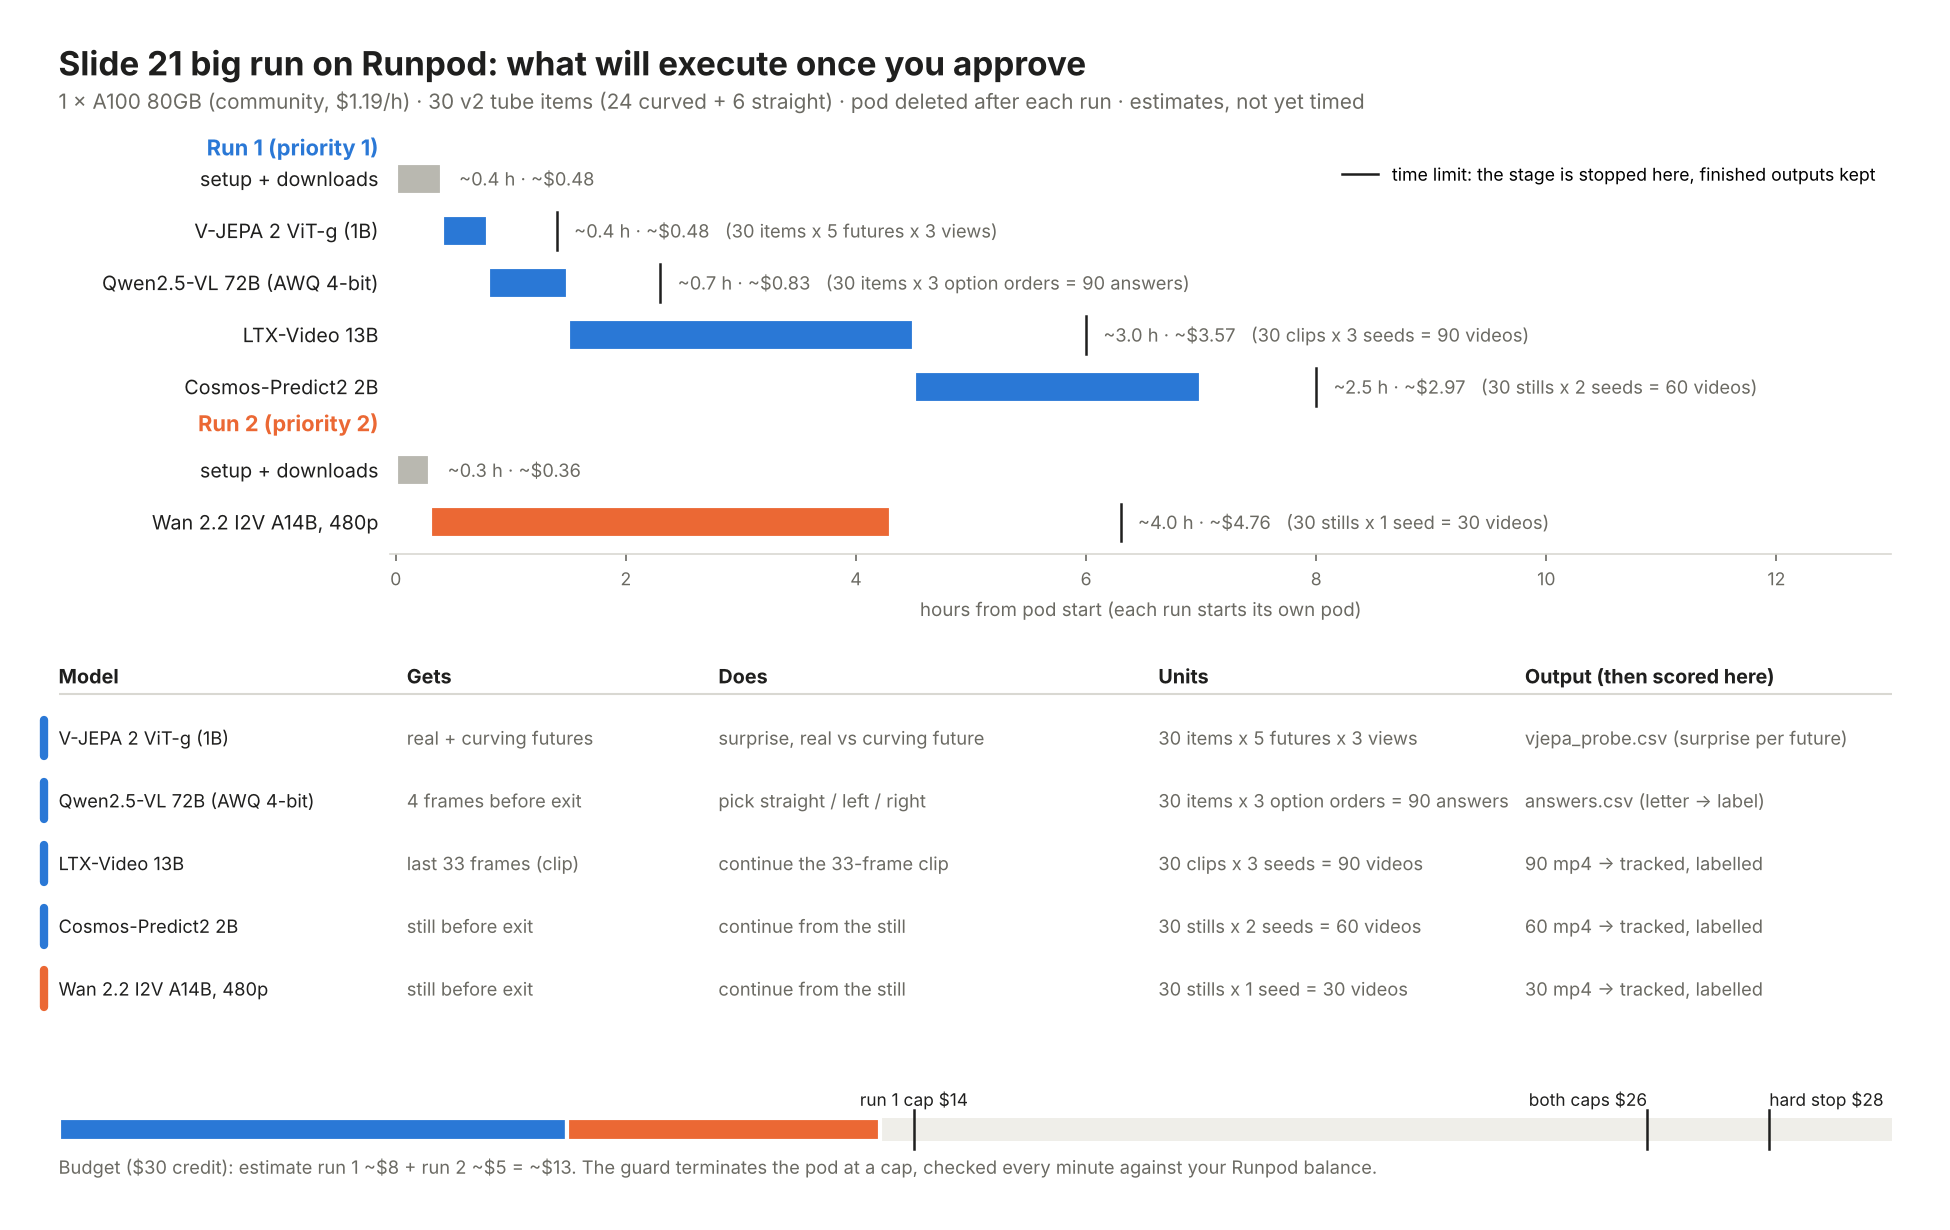
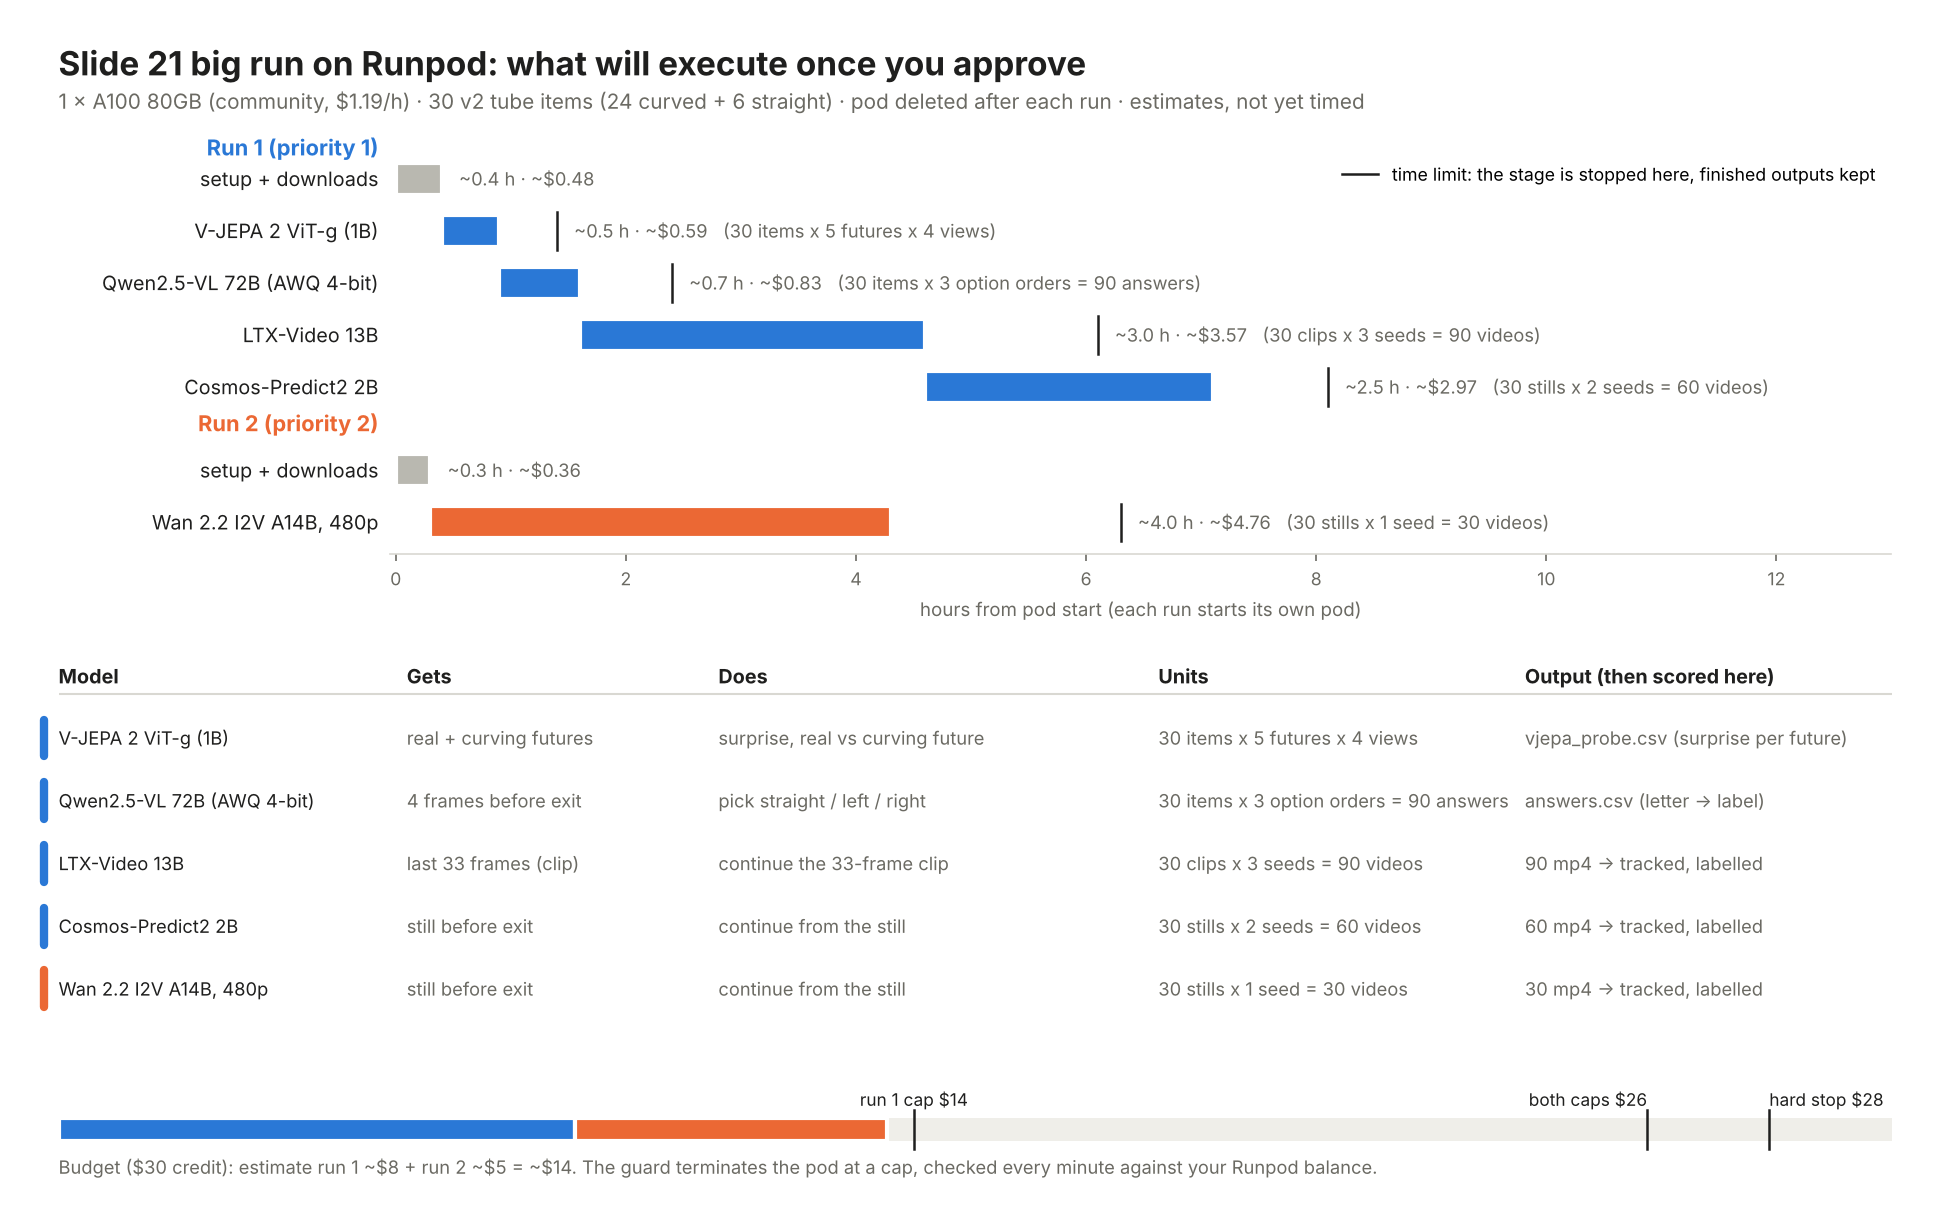
V-JEPA probe: add a 6 fps whole-frame view where the true and curving paths separate
The existing views end 5-13 frames after the exit, when the two futures are only
0.1-1.3 ball radii apart. whole6 spans 1.33 s after the input (median gap 4.3 radii).
The three original views are kept for comparison with the ViT-L run.

Claude-Session: https://claude.ai/code/session_016HSRno71cRiKCwfCcdtaVS

diff --git a/experiments/runpod-bigrun/show_inputs_template.html b/experiments/runpod-bigrun/show_inputs_template.html
@@ -136,7 +136,7 @@ img.frame { width: 100%; height: auto; border-radius: 6px; display: block; backg
     <div class="about">
       <span class="eyebrow">World model · surprise</span><h2>V-JEPA 2 ViT-g</h2>
       <p>Gets 16-frame clips: 8 frames of context (top row) and 8 of a future (bottom row). We compare its surprise at the true future with the curving one. Vanish, reverse and freeze are impossible futures used as a sanity check.</p>
-      <div class="spec"><span class="chip">16 frames</span><span class="chip">256 × 256</span><span class="chip">3 views × 5 futures</span></div>
+      <div class="spec"><span class="chip">16 frames</span><span class="chip">256 × 256</span><span class="chip">4 views × 5 futures</span></div>
     </div>
     <div class="body">
       <div class="seg" id="viewSeg" role="group" aria-label="View"></div>
@@ -158,7 +158,7 @@ const D = /*DATA*/null;
 const $ = id => document.getElementById(id);
 const esc = s => String(s).replace(/[&<>"]/g, c => ({"&": "&amp;", "<": "&lt;", ">": "&gt;", '"': "&quot;"}[c]));
 const LAB = {"curving": "curve", "no bias": "", "outward": "ok"};
-let cur = 0, order = 0, view = "crop24", timer = null;
+let cur = 0, order = 0, view = "whole6", timer = null;
 
 function seg(el, opts, active, onPick) {
   el.innerHTML = opts.map(([v, t]) => `<button type="button" data-v="${v}" aria-pressed="${v == active}">${esc(t)}</button>`).join("");

diff --git a/experiments/pilot/v2/vjepa2/vjepa_probe.py b/experiments/pilot/v2/vjepa2/vjepa_probe.py
@@ -2,8 +2,11 @@
 For each item, 16-frame clips (8 context + 8 future) are built for five futures:
   correct (true straight exit), impetus (curving foil), and three impossible ones for calibration:
   vanish (ball erased after the exit), reverse (ball rolls back into the tube), freeze (ball stops dead).
-Three views of the same clip:
+Four views of the same clip:
   whole  : whole frame padded to a square, 12 fps (as in the first runs)
+  whole6 : whole frame padded to a square, 6 fps: the 8 future frames span 1.33 s after the input ends, so the
+           true and curving balls end a median 4.3 ball radii apart (vs 0.1-1.3 in the other views); on the
+           straight-tube items the ball has left the frame by the last 1-2 frames
   crop12 : 512 px square around the exit point, 12 fps, resized to 256
   crop24 : 256 px square around the exit point, 24 fps, native resolution
 Two scores per view: mean L1 error over all future tokens ("all") and over the tokens where the ball
@@ -47,7 +50,7 @@ def clip_idx(c, fps_step):
 def view(fr, idx, m, kind):
     """Returns (16, RES, RES, 3) uint8 and a function mapping image xy to RES-space xy."""
     H, W = fr.shape[1:3]; c = m["context_end_frame"]; ex, ey = m["ball_xy"][c]
-    if kind == "whole":
+    if kind in ("whole", "whole6"):
         side = max(H, W); ox, oy = (side - W) // 2, (side - H) // 2
         canvas = np.empty((16, side, side, 3), np.uint8); canvas[:] = np.median(fr[0, 0], axis=0).astype(np.uint8)
         canvas[:, oy:oy + H, ox:ox + W] = fr[idx]
@@ -98,7 +101,7 @@ def main():
     for iid, m in sorted(items.items()):
         if not m.get("anomalous_impetus_xy"): continue
         c = m["context_end_frame"]; F = futures(m); step24 = max(1, round(m["fps"] / 24))
-        for kind, step in (("whole", 2 * step24), ("crop12", 2 * step24), ("crop24", step24)):
+        for kind, step in (("whole", 2 * step24), ("crop12", 2 * step24), ("crop24", step24), ("whole6", 4 * step24)):
             idx = clip_idx(c, step)
             if idx[0] < 0 or idx[-1] >= len(F["correct"]): continue
             _, to_res = view(F["correct"], idx, m, kind)

diff --git a/experiments/runpod-bigrun/orchestrate.py b/experiments/runpod-bigrun/orchestrate.py
@@ -36,7 +36,7 @@ IMAGE = "runpod/pytorch:2.4.0-py3.11-cuda12.4.1-devel-ubuntu22.04"   # only its 
 
 # stage: (what, units, est. hours on one A100 80GB incl. weight download, time limit on the pod, extra args)
 STAGES = {
-    "vjepa_g":  ("V-JEPA 2 ViT-g (1B): surprise, real vs curving future", "30 items x 5 futures x 3 views", 0.4, 1.0),
+    "vjepa_g":  ("V-JEPA 2 ViT-g (1B): surprise, real vs curving future", "30 items x 5 futures x 4 views", 0.5, 1.0),
     "ltx13b":   ("LTX-Video 13B: continue the 33-frame clip", "30 clips x 3 seeds = 90 videos", 3.0, 4.5),
     "vlm":      ("Qwen2.5-VL 72B (AWQ 4-bit): pick straight / left / right", "30 items x 3 option orders = 90 answers", 0.7, 1.5),
     "cosmos2b": ("Cosmos-Predict2 2B: continue from the still", "30 stills x 2 seeds = 60 videos", 2.5, 3.5),

diff --git a/experiments/runpod-bigrun/show_inputs.py b/experiments/runpod-bigrun/show_inputs.py
@@ -50,7 +50,8 @@ for iid, m in SEL.items():
         orders.append(dict(text=C.vlm_question(order), labels=lab))
     vjv = []
     for view, desc in (("whole", "whole frame, padded square, 12 fps"), ("crop12", "512 px square at the exit, 12 fps"),
-                       ("crop24", "256 px square at the exit, 24 fps")):
+                       ("crop24", "256 px square at the exit, 24 fps"),
+                       ("whole6", "whole frame, 6 fps: the future runs 1.33 s past the input, so the paths separate")):
         row = {}
         for fut in ("correct", "impetus", "vanish", "reverse", "freeze"):
             p = os.path.join(vj, f"{iid}_{view}_{fut}.jpg")

diff --git a/experiments/runpod-bigrun/README.md b/experiments/runpod-bigrun/README.md
@@ -6,7 +6,7 @@ One A100 80GB on Runpod's community cloud ($1.19/h), two runs, a hard budget of 
 
 | Run | Model | Gets | Output |
 |---|---|---|---|
-| 1 | V-JEPA 2 ViT-g (1B) | 16-frame clips: context + true / curving / 3 impossible futures, 3 views | `vjepa_probe.csv` (surprise per future) |
+| 1 | V-JEPA 2 ViT-g (1B) | 16-frame clips: context + true / curving / 3 impossible futures, 4 views (incl. a 6 fps one where the paths separate) | `vjepa_probe.csv` (surprise per future) |
 | 1 | Qwen2.5-VL 72B (AWQ 4-bit) | 4 frames over the last second + a 3-option question, 3 option orders | `answers.csv` |
 | 1 | LTX-Video 13B (0.9.7-dev) | last 33 frames of the clip, same prompt and seeds as the 2B run, 3 seeds | 90 mp4 |
 | 1 | Cosmos-Predict2 2B Video2World | the still before the exit, 2 seeds | 60 mp4 |
